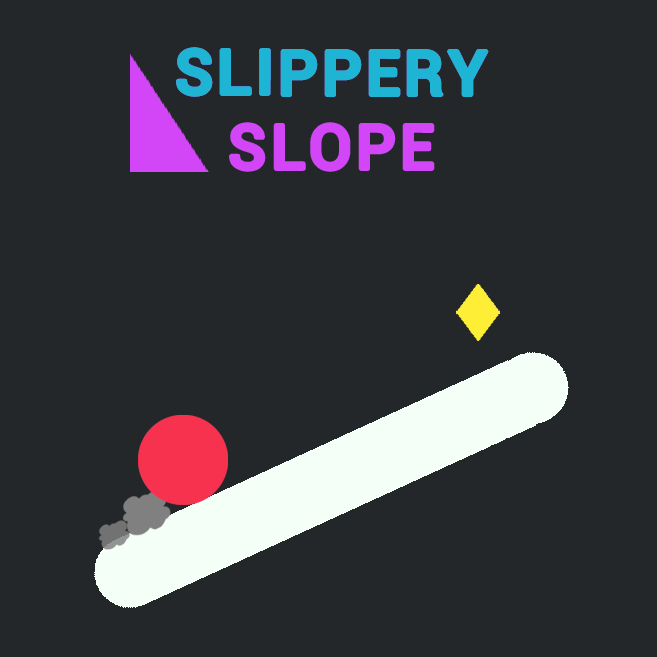
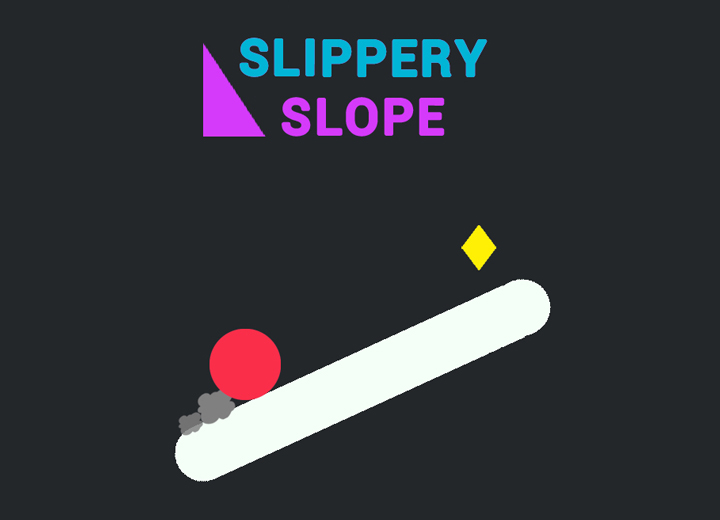
Update images for Tommy

diff --git a/_posts/2018-01-01-slippery-slope.md b/_posts/2018-01-01-slippery-slope.md
@@ -2,8 +2,8 @@
 title: Slippery Slope
 date: 2018-01-01
 layout: default
-img: dreams.png
-thumbnail: needed-thumb.jpg
+img: slipperyslope.jpg
+thumbnail: slipperyslope-thumb.jpg
 alt: slippery-slope
 small: false
 authors:
